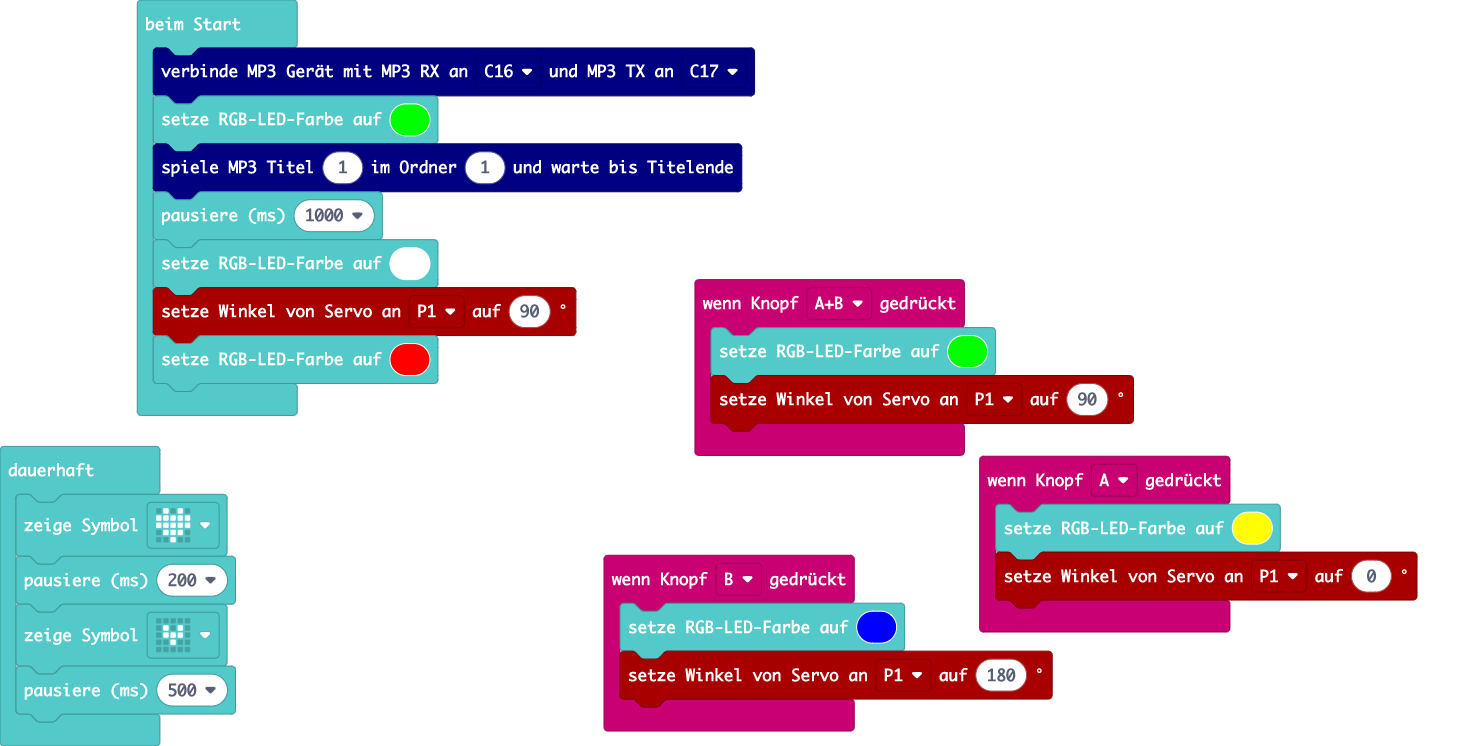
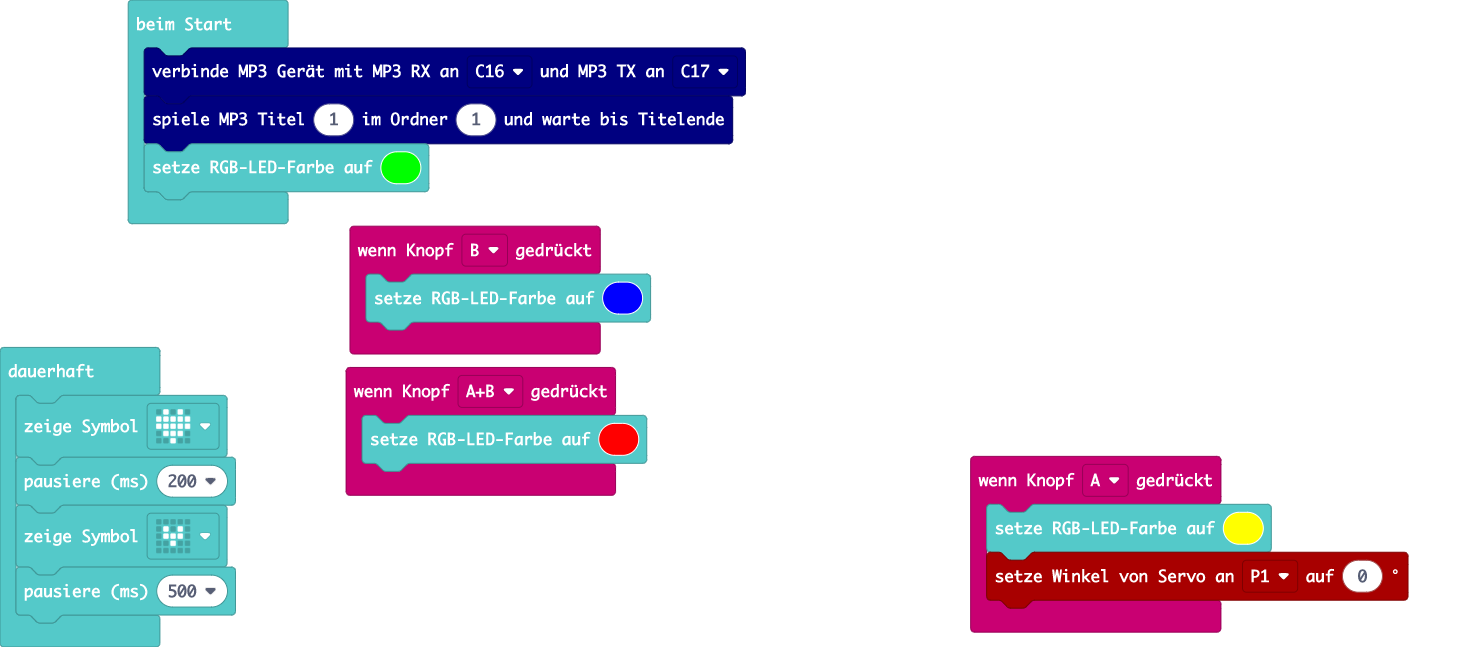
Fred spricht beim Start und wechselt danach die Farben der LED wenn eine Taste gedrückt wird.

diff --git a/main.ts b/main.ts
@@ -3,20 +3,14 @@ input.onButtonPressed(Button.A, function () {
     pins.servoWritePin(AnalogPin.P1, 0)
 })
 input.onButtonPressed(Button.AB, function () {
-    basic.setLedColor(0x00ff00)
-    pins.servoWritePin(AnalogPin.P1, 90)
+    basic.setLedColor(0xff0000)
 })
 input.onButtonPressed(Button.B, function () {
     basic.setLedColor(0x0000ff)
-    pins.servoWritePin(AnalogPin.P1, 180)
 })
 serialmp3.connectSerialMp3(DigitalPin.C16, DigitalPin.C17)
-basic.setLedColor(0x00ff00)
 serialmp3.playMp3Track(1, 1)
-basic.pause(1000)
-basic.setLedColor(0xffffff)
-pins.servoWritePin(AnalogPin.P1, 90)
-basic.setLedColor(0xff0000)
+basic.setLedColor(0x00ff00)
 basic.forever(function () {
     basic.showIcon(IconNames.Heart)
     basic.pause(200)
